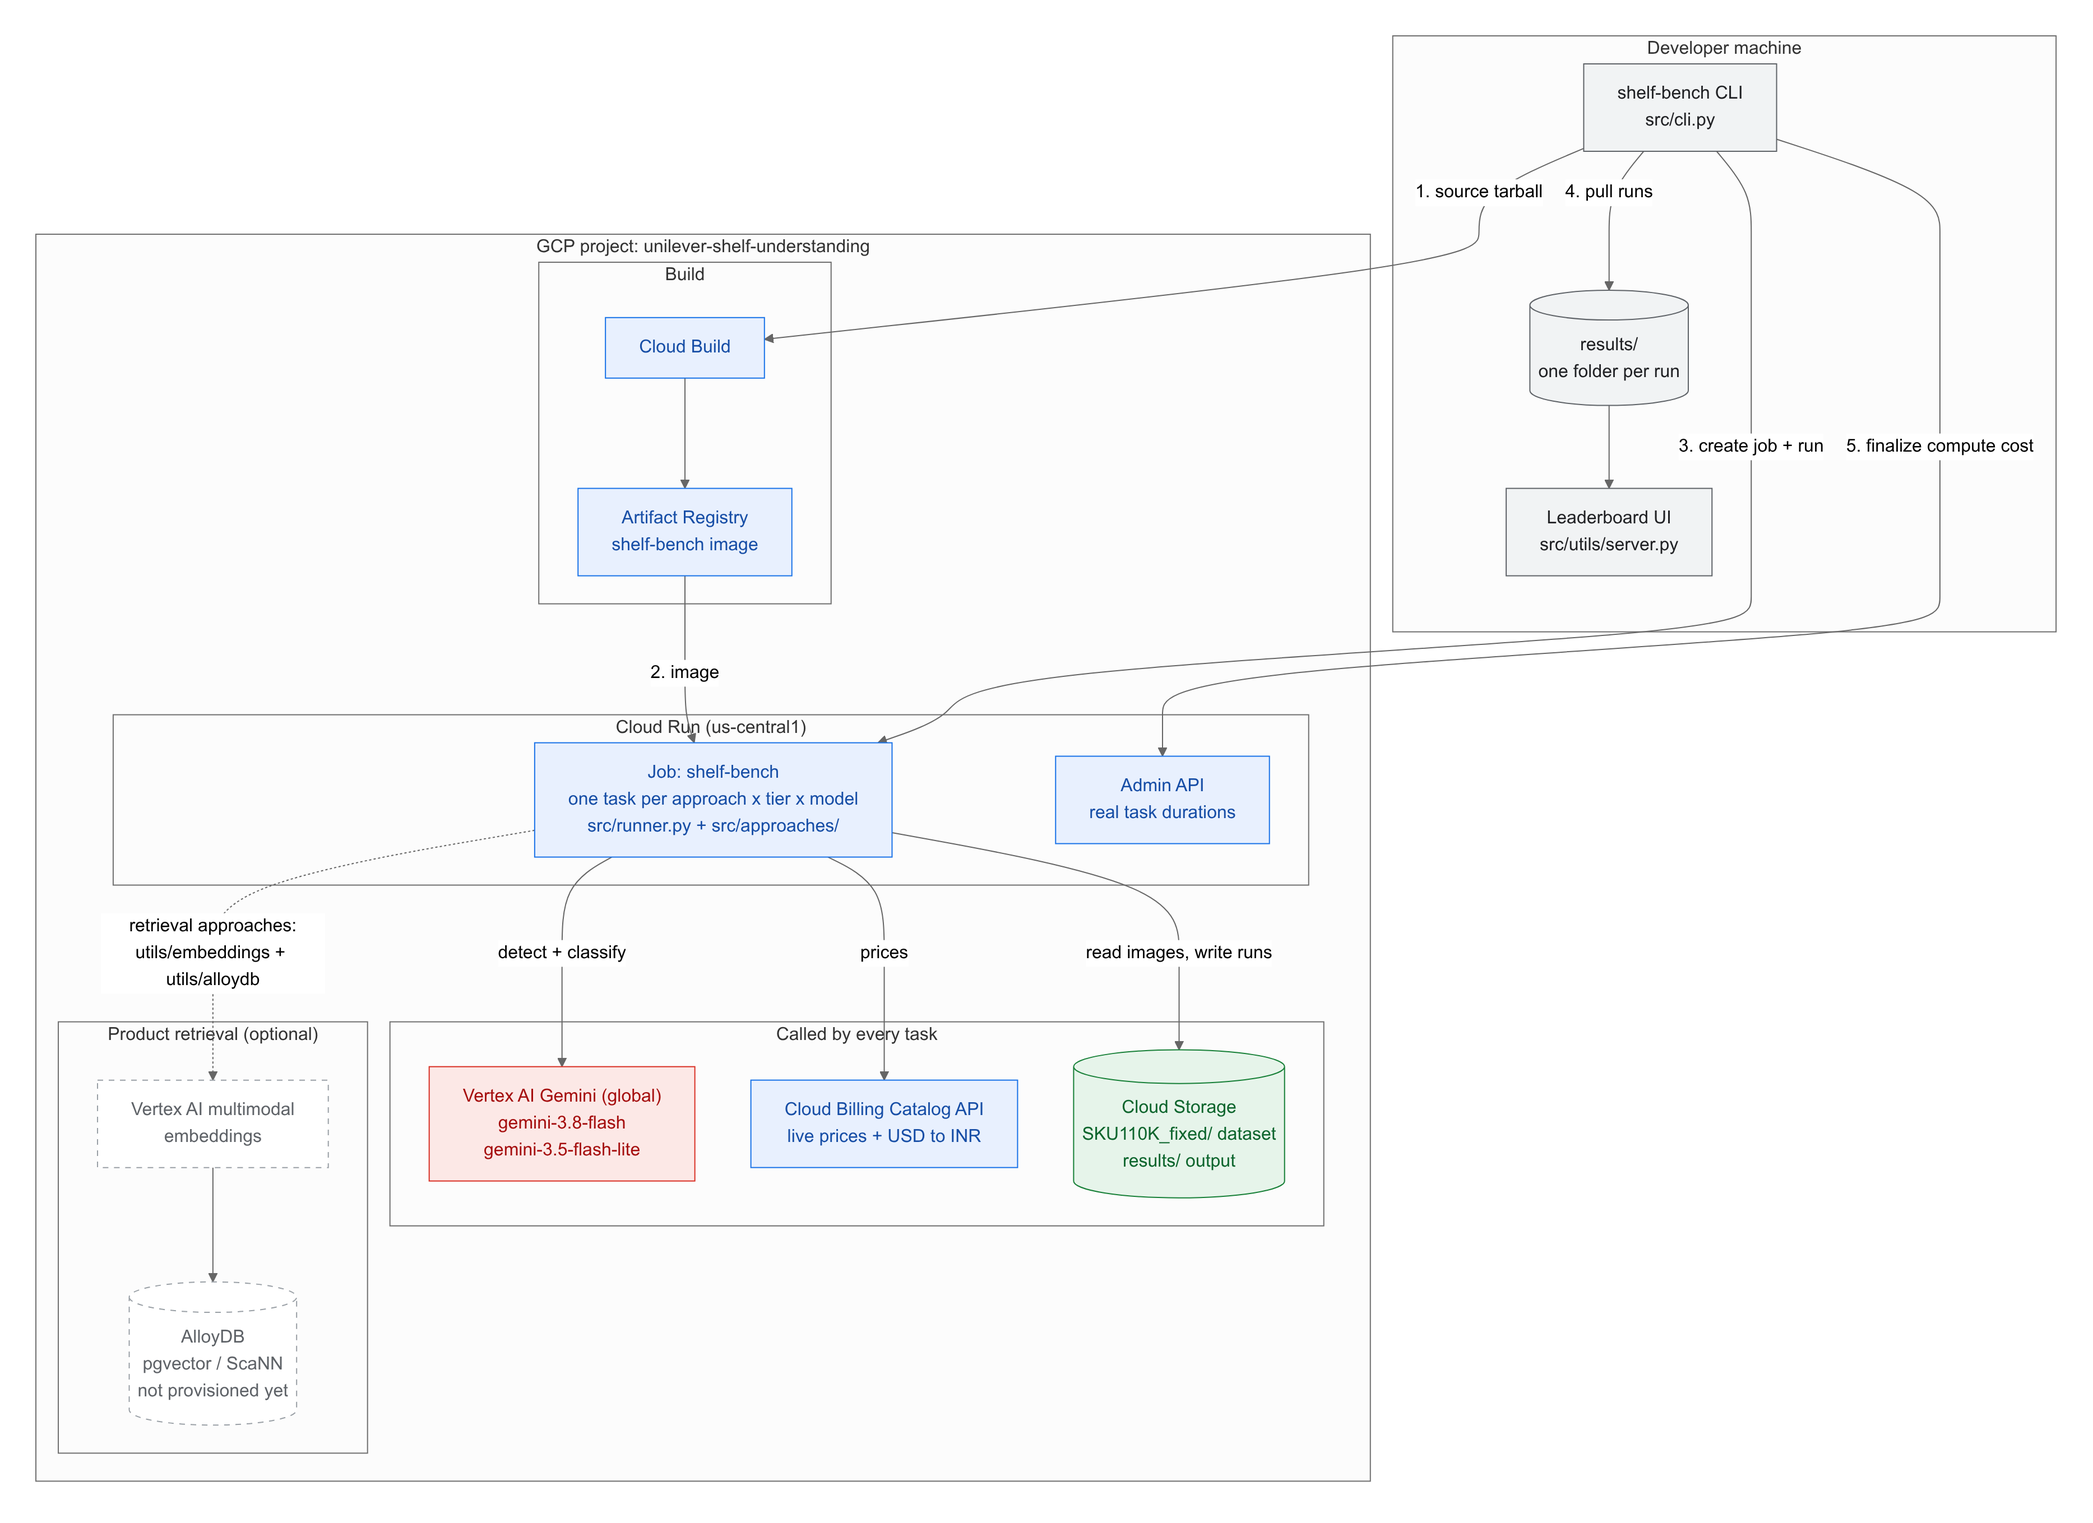
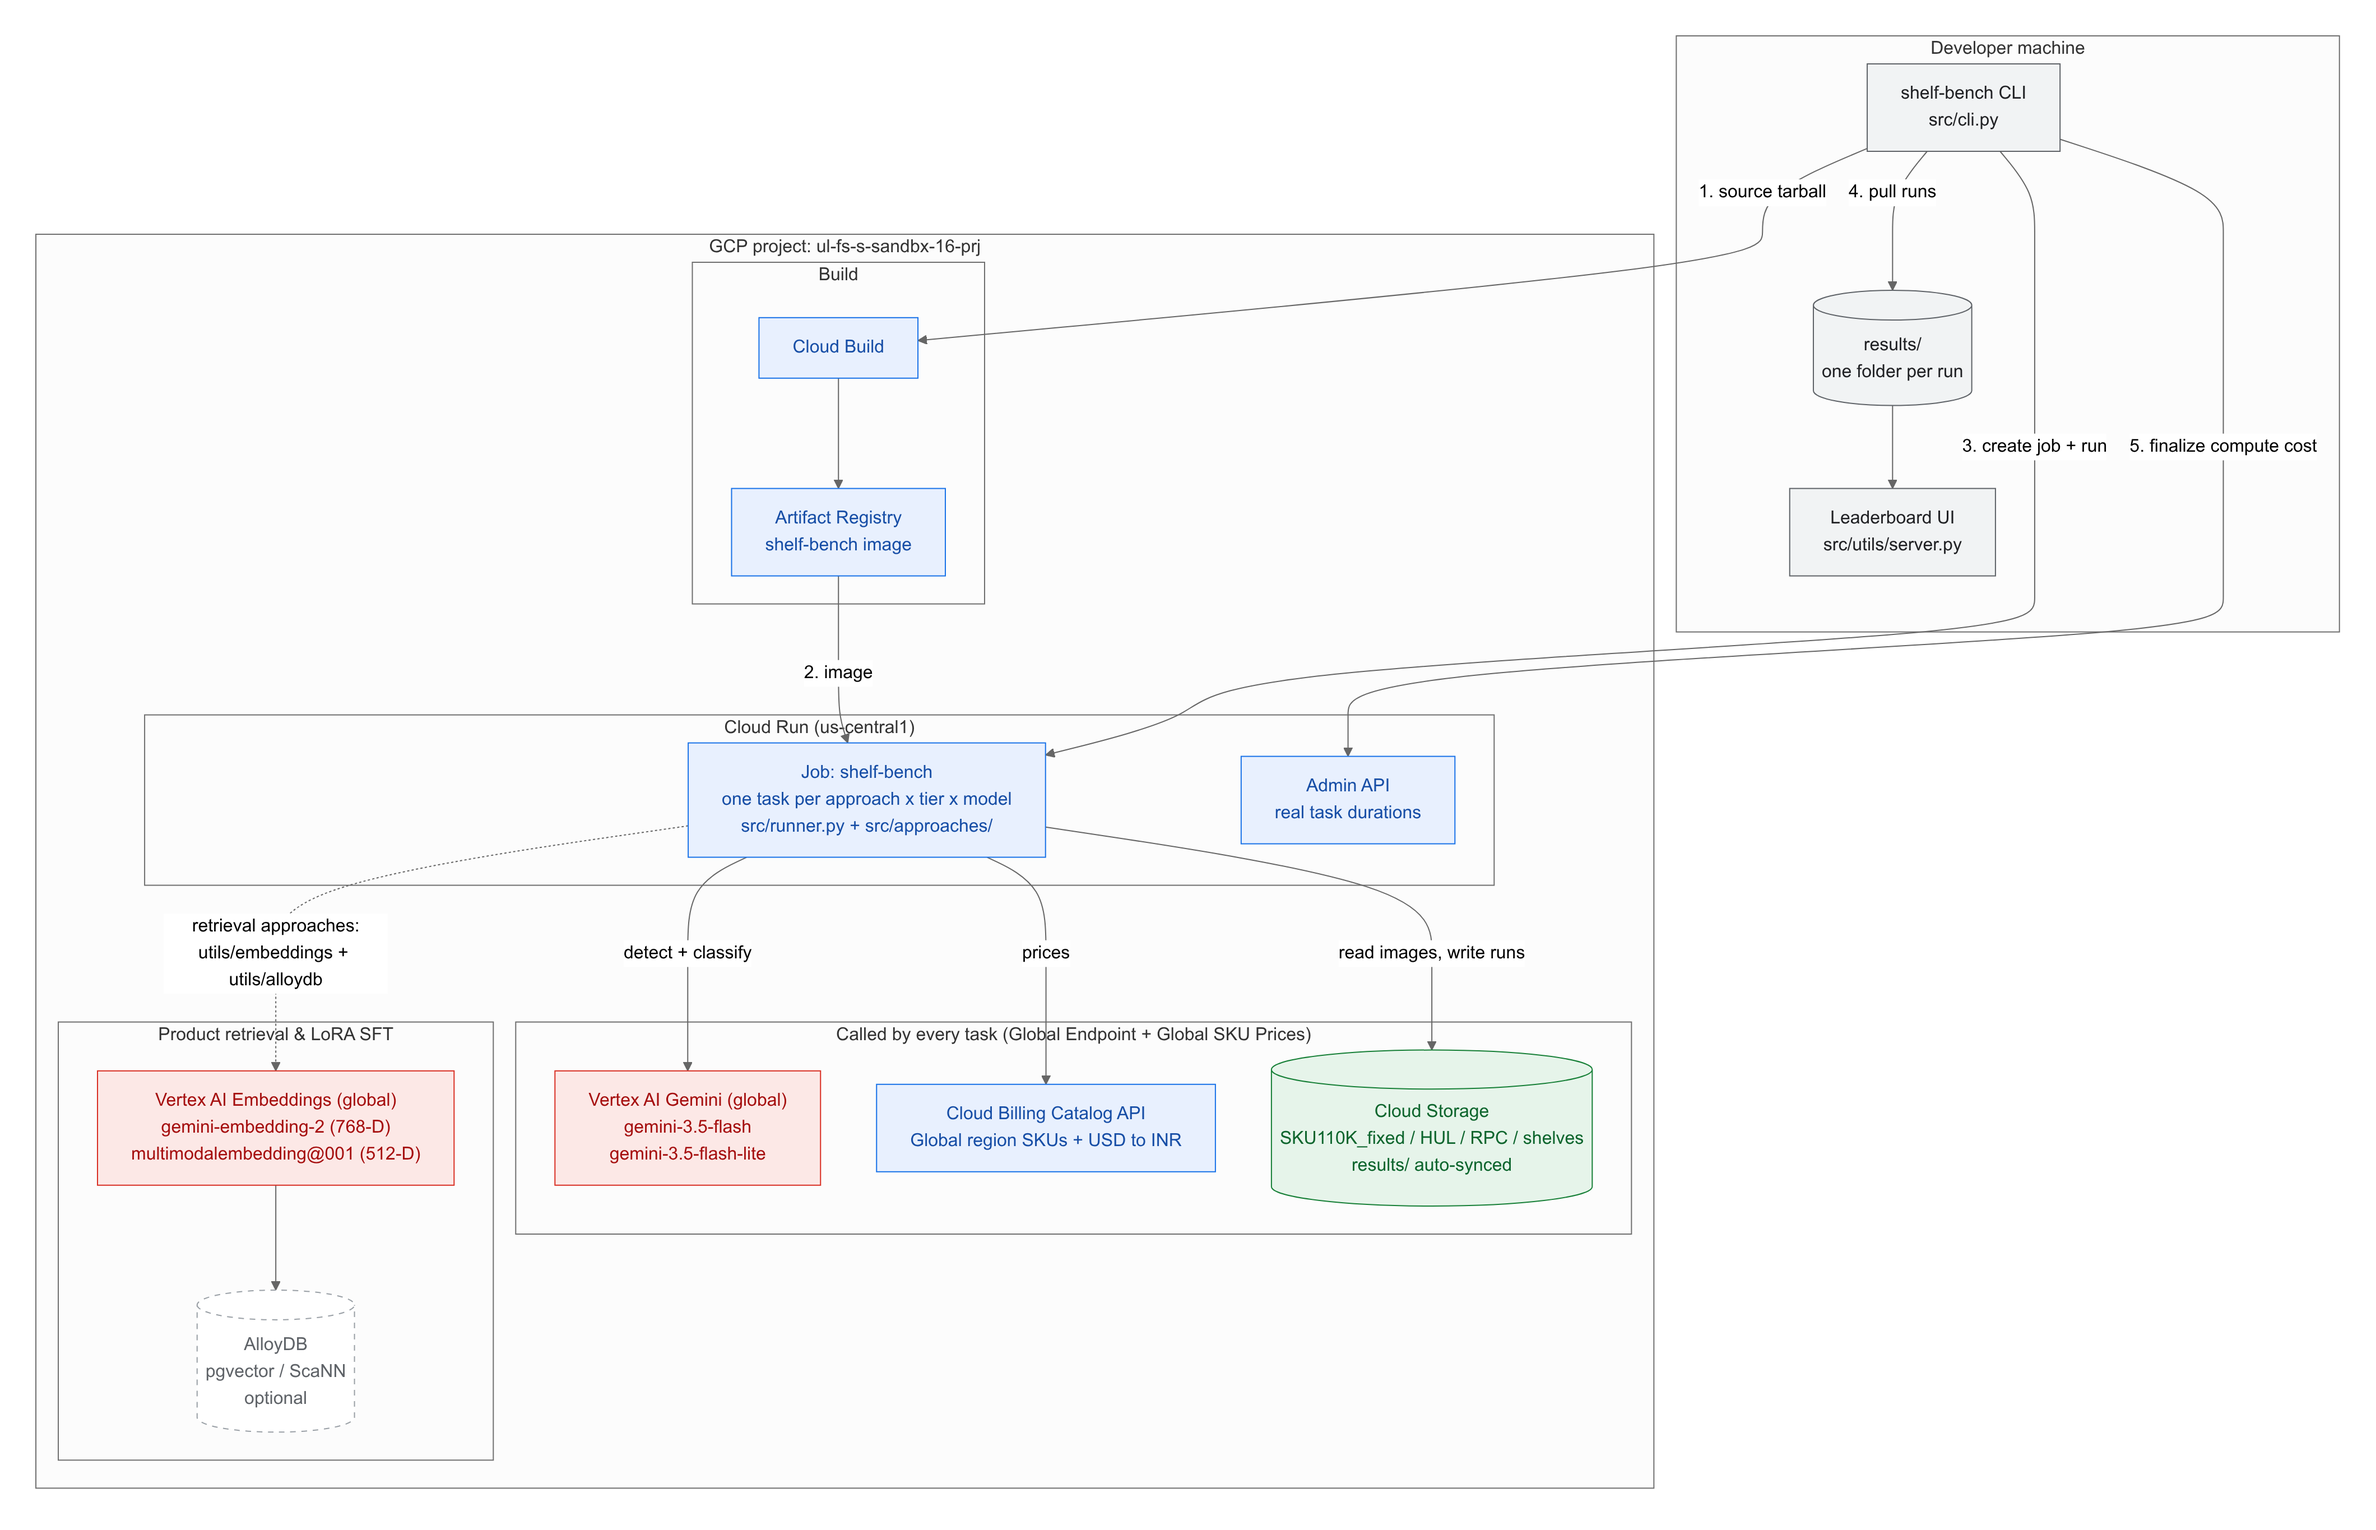
docs(reference): document global Vertex AI endpoints, global billing, and LoRA SFT

diff --git a/docs/render.py b/docs/render.py
@@ -21,7 +21,8 @@ PAGE = """<!doctype html><html><body style="margin:0;background:#fff">
 async def main() -> None:
     (HERE / "images").mkdir(exist_ok=True)
     async with async_playwright() as p:
-        browser = await p.chromium.launch()
+        chrome = Path("/usr/bin/google-chrome")
+        browser = await p.chromium.launch(executable_path=str(chrome) if chrome.exists() else None)
         page = await browser.new_page(device_scale_factor=2, viewport={"width": 1600, "height": 1000})
         await page.set_content(PAGE)
         await page.wait_for_function("window.mermaid !== undefined")

diff --git a/docs/reference.md b/docs/reference.md
@@ -142,3 +142,36 @@ Approaches get all of this for free through `ctx.ask` and `ctx.trace.step`. Writ
 `roles/cloudtrace.agent` + `roles/logging.logWriter`, and viewing needs `roles/cloudtrace.user` +
 `roles/logging.viewer`. Logs take up to a minute to show up. To turn it off, set
 `telemetry.enabled: false` in `config.yaml` or `SHELF_BENCH_TELEMETRY=0`. Tests never export.
+
+## Global Vertex AI Endpoints, Global Billing & LoRA SFT
+
+```mermaid
+flowchart LR
+  subgraph CFG["1. Global Routing (llm.py + embeddings.py)"]
+    G["Gemini 3.5 Flash / Flash Lite"] --> GL["locations/global<br/>aiplatform.googleapis.com"]
+    E["gemini-embedding-2 (768-D)<br/>multimodalembedding@001 (512-D)"] --> GL
+  end
+  subgraph BILL["2. Global SKU Pricing (pricing.py)"]
+    GL --> CAT["Cloud Billing Catalog API<br/>Select 'Global' SKU First (-10% vs Regional)"]
+  end
+  subgraph SFT["3. LoRA Fine-Tuning (tuning.py)"]
+    DATA["RPC / Shelves Gallery"] --> JSONL["build_sft_jsonl()<br/>4-Candidate Contact Sheets + Choice=0"]
+    JSONL --> TUNE["launch_sft_job()<br/>Vertex AI LoRA Adapter"]
+  end
+```
+
+### 1. Global Endpoint Routing ([`src/utils/llm.py`](../src/utils/llm.py), [`src/utils/embeddings.py`](../src/utils/embeddings.py))
+* **Rule:** Route all model calls to the `global` Vertex AI endpoint (`https://aiplatform.googleapis.com/v1/projects/{project}/locations/global/...`) by default.
+* **Reason 1 (Latency & Quota):** The `global` endpoint routes traffic across available regions and avoids single-region quota exhaustion.
+* **Reason 2 (Model Availability):** GA `gemini-embedding-2` requires the `global` endpoint (`us-central1` returns `404 Not Found`). Both `gemini-embedding-2` (`768-dim`) and `multimodalembedding@001` (`512-dim`) run on `locations/global`.
+* **Reason 3 (Lower Cost):** Global region SKUs in the Cloud Billing Catalog cost **10% less** than Regional SKUs (for example, `$0.30 / 1M` vs. `$0.33 / 1M` image input tokens on `gemini-3.5-flash-lite`).
+
+### 2. Global Region SKU Pricing ([`src/utils/pricing.py`](../src/utils/pricing.py))
+* **Rule:** `price_sheet()` queries `sku_description(base_model, "global", tier, kind)` first in the Cloud Billing Catalog API.
+* **Fallback:** The lookup falls back to a regional SKU only if a global SKU does not exist for that model.
+
+### 3. Parameter-Efficient LoRA SFT Pipeline ([`src/utils/tuning.py`](../src/utils/tuning.py))
+* **Step 1 (`build_sft_jsonl`):** Build Laya 4-candidate visual contact sheets from the reference gallery, including `20%` negative examples (`{"choice": 0}`) for open-world competitor rejection, and upload `train.jsonl` and `val.jsonl` to GCS.
+* **Step 2 (`launch_sft_job`):** Submit a parameter-efficient LoRA supervised fine-tuning job on Vertex AI (`adapter_size` in `{1, 4, 8, 16}`).
+* **Step 3 (`resolve_model`):** Route `-sft` model aliases in `config.yaml` to the tuned endpoint while billing tokens at the base model's `Global` SKU rate.
+
